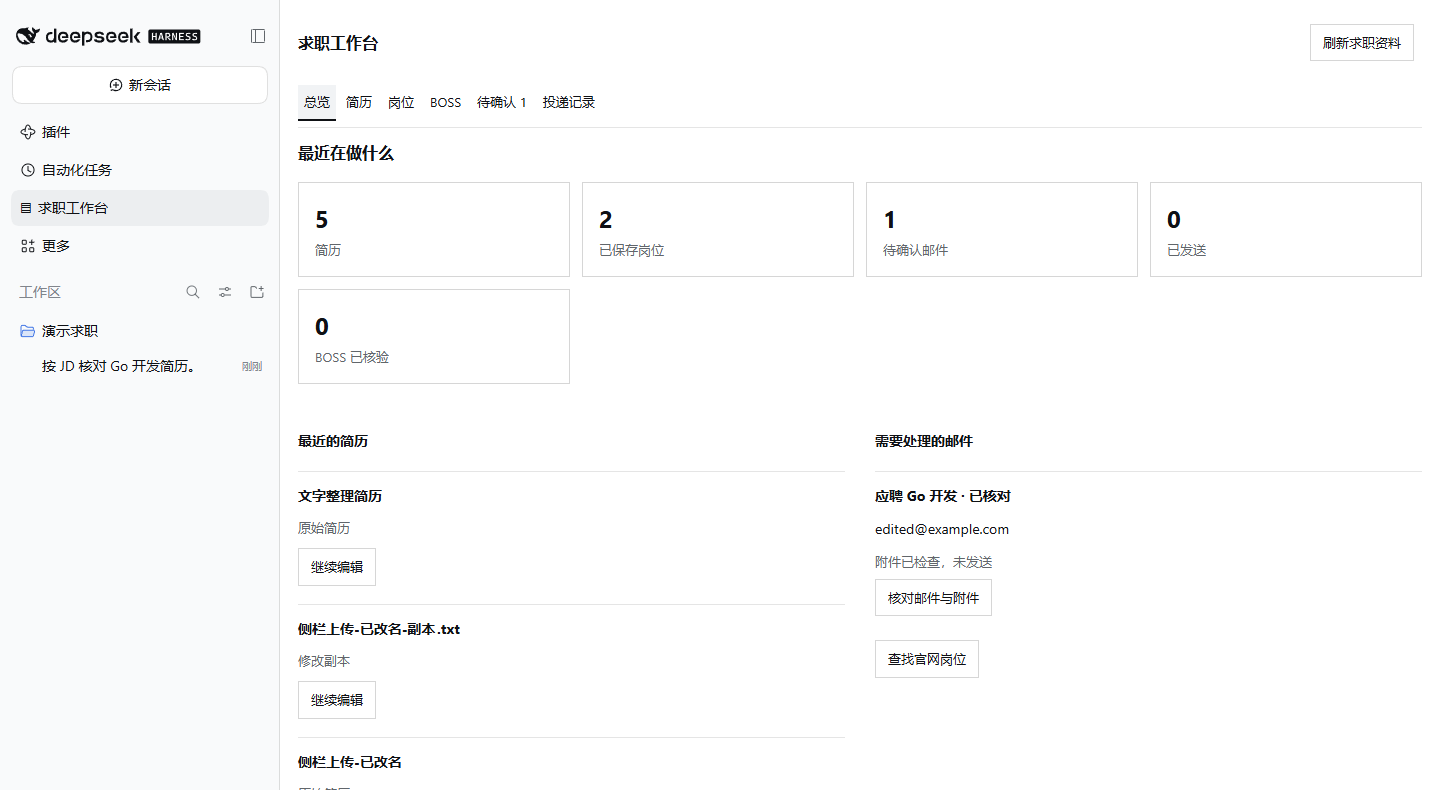
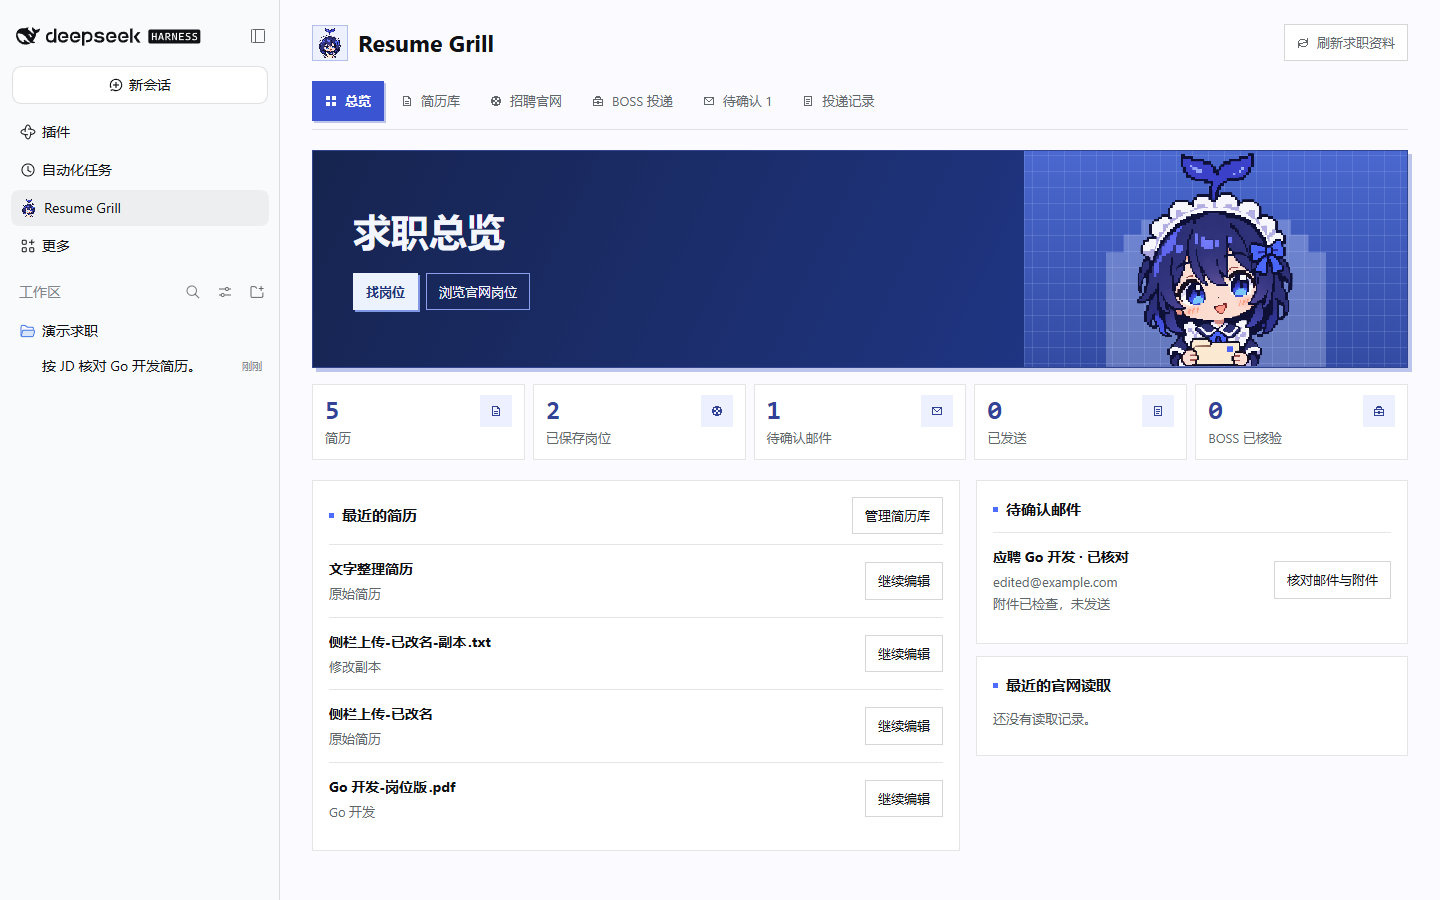
docs: 添加技术栈徽章并更新 DSH 截图

diff --git a/README.md b/README.md
@@ -1,8 +1,16 @@
 # Resume Grill
 
-一个 DSH 求职插件。在工作台里找岗位、按 JD 修改简历、准备投递，简历和记录保存在本机。也提供 [MCP 接口](docs/mcp.md)。
+<p align="center">
+  <img src="https://img.shields.io/badge/React-19-149eca?logo=react&amp;logoColor=white" alt="React 19">
+  <img src="https://img.shields.io/badge/TypeScript-6-3178c6?logo=typescript&amp;logoColor=white" alt="TypeScript 6">
+  <img src="https://img.shields.io/badge/Node.js-24%2B-339933?logo=nodedotjs&amp;logoColor=white" alt="Node.js 24+">
+  <img src="https://img.shields.io/badge/SQLite-%E6%9C%AC%E5%9C%B0%E5%AD%98%E5%82%A8-003b57?logo=sqlite&amp;logoColor=white" alt="SQLite 本地存储">
+  <img src="https://img.shields.io/badge/MCP-SDK_1.32-24292f" alt="MCP SDK 1.32">
+  <img src="https://img.shields.io/badge/Playwright-1.65-2e9d50" alt="Playwright 1.65">
+  <a href="https://linux.do/"><img src="https://img.shields.io/badge/LINUX%20DO-%E7%A4%BE%E5%8C%BA-f5c76b?labelColor=555" alt="LINUX DO 社区"></a>
+</p>
 
-![Resume Grill 的像素 DS 娘头像](plugin/branding/ds-chan.webp)
+一个 DSH 求职插件。在工作台里找岗位、按 JD 修改简历、准备投递，简历和记录保存在本机。也提供 [MCP 接口](docs/mcp.md)。
 
 ## 安装
 
@@ -19,6 +27,8 @@ npm run package:plugin
 
 ## 功能
 
+![Resume Grill 在 DSH 中的求职总览](docs/screenshots/dsh-overview.png)
+
 | 入口 | 可以做什么 |
 | --- | --- |
 | 简历库 | 导入 PDF、DOCX、TXT 或 Markdown，查看原文件、编辑另存、管理版本和回收站。 |
@@ -30,18 +40,14 @@ npm run package:plugin
 
 ### 按岗位改简历
 
-打开岗位 JD，勾选要采纳的修改，也可以手动改正文。原简历保留，新的岗位版 PDF 采用文本排版。
-
-![根据岗位 JD 核对简历修改](docs/screenshots/dsh-job-review.png)
+打开岗位 JD，勾选要采纳的修改，也可以手动改正文。原简历保留，新的岗位版 PDF 采用文本排版。[查看简历核对截图](docs/screenshots/dsh-job-review.png)
 
 ### BOSS 投递
 
-在 **Resume Grill → BOSS 投递** 选主简历，点「找岗位并准备投递」。插件搜索、读 JD，并用选定的简历准备最多 3 个岗位，核对后一次确认投递。[BOSS 使用说明](docs/boss.md)
+在 **Resume Grill → BOSS 投递** 选主简历，点「找岗位并准备投递」。插件搜索、读 JD，并准备最多 3 个岗位。核对前可增减岗位、换简历或调整顺序。[BOSS 使用说明](docs/boss.md)
 
-![DSH 的 BOSS 页面已连接 Microsoft Edge](docs/screenshots/dsh-boss.png)
+![DSH 中的 BOSS 岗位列表和待投任务，使用演示数据](docs/screenshots/dsh-boss.png)
 
 ## 开发
-
-TypeScript · React · SQLite · MCP
 
 `npm run check` 检查类型，`npm test` 运行测试。[开发说明](docs/development.md) · [来源与许可](THIRD_PARTY.md)
